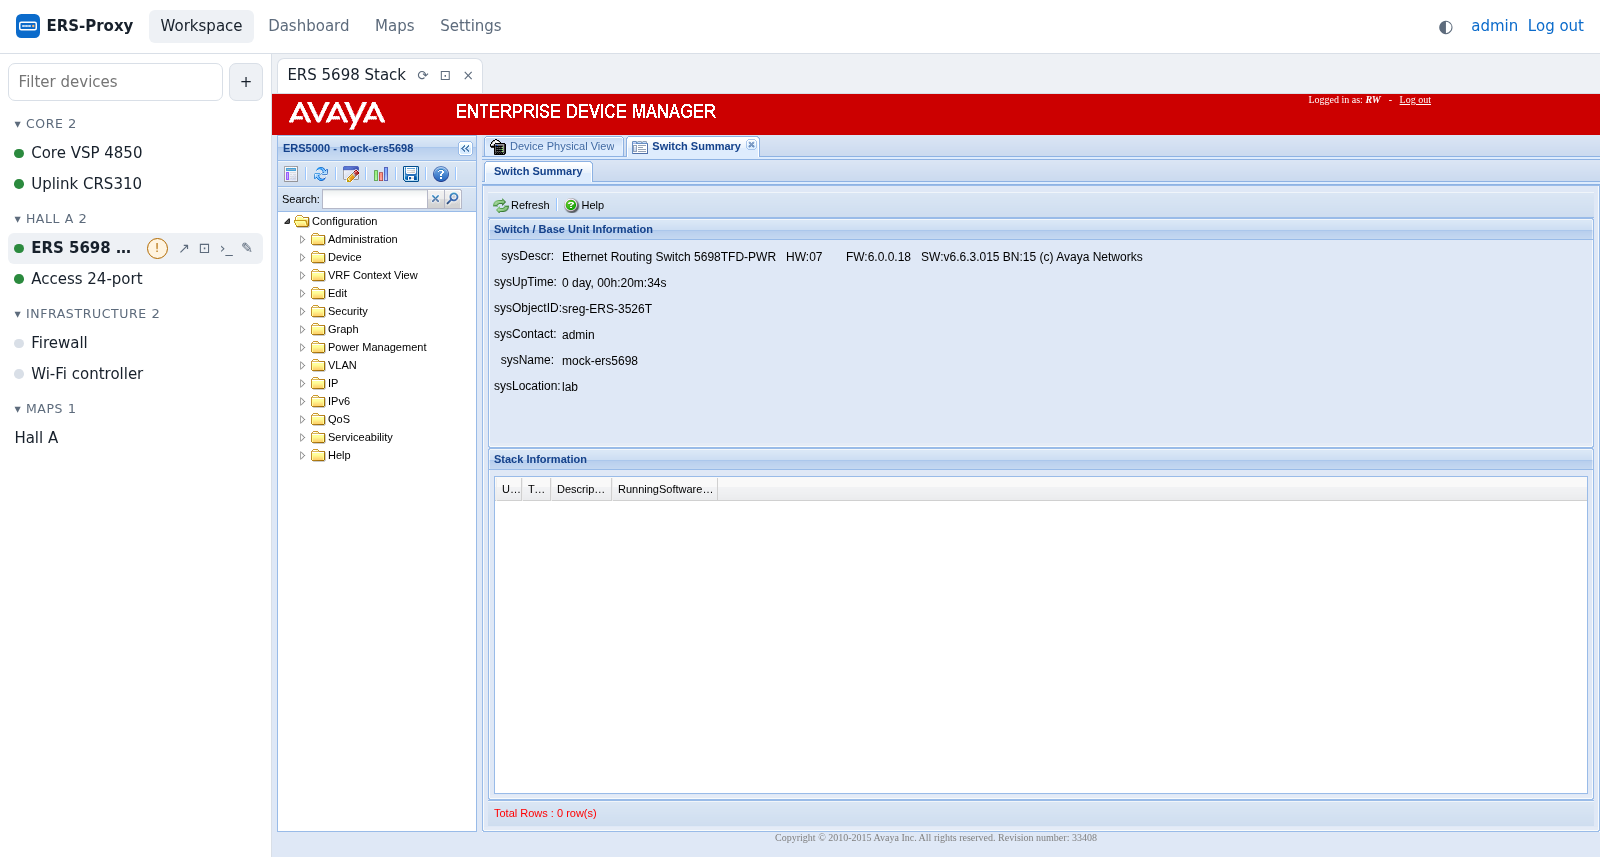
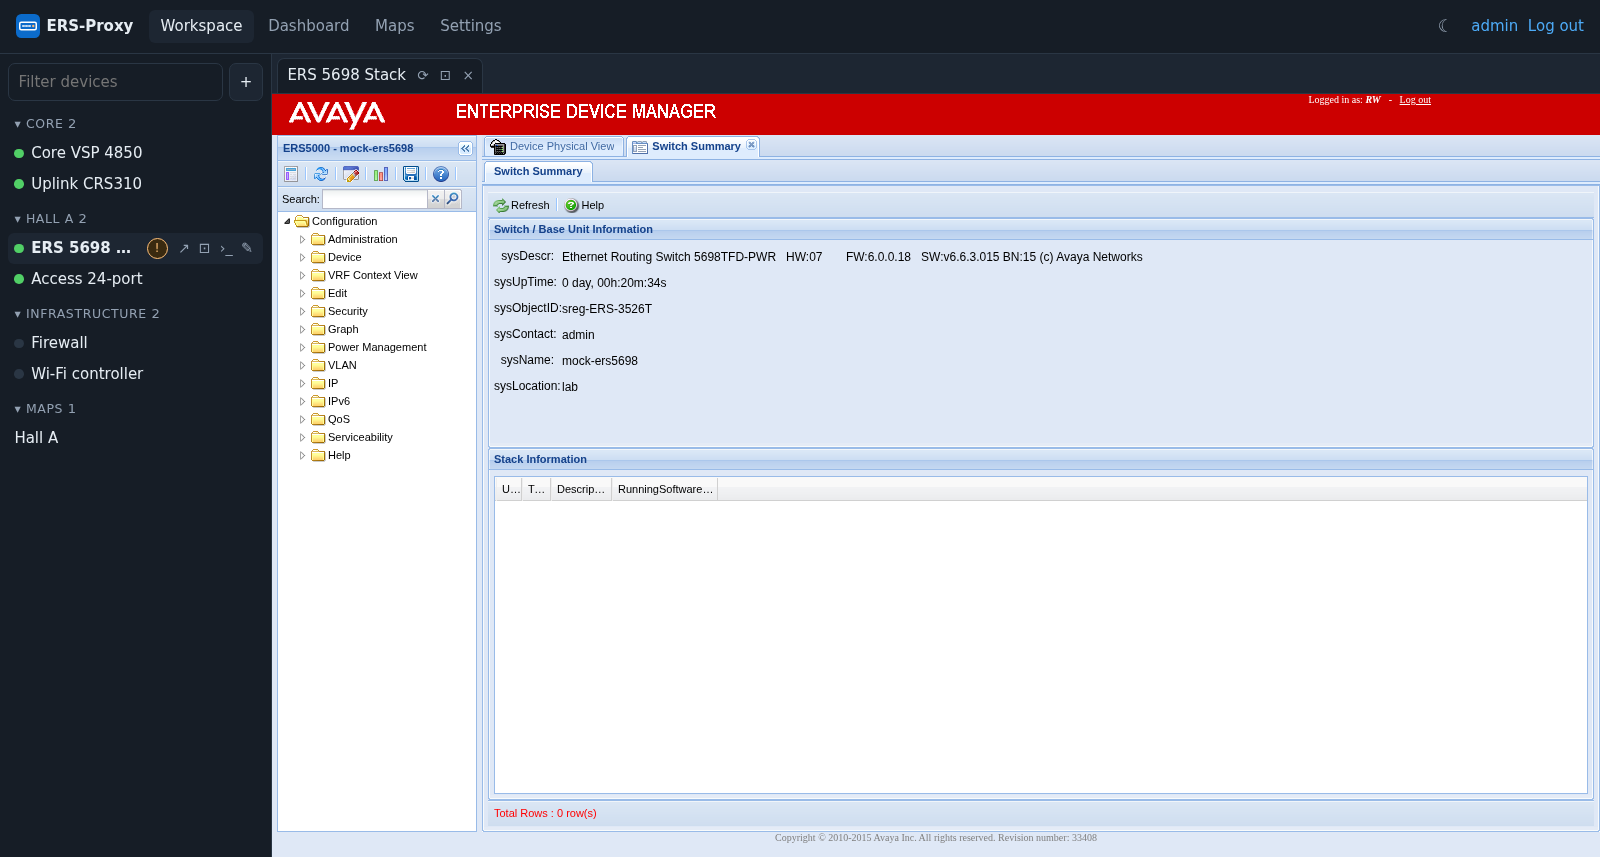
Take the README screenshots in the dark theme
All screenshots are retaken with the dark theme, and the floor plan
behind the map is dark as well. The map has one image instead of a
light and a dark one.

Changed region(s): [[0.0, 0.0, 1.0, 1.0]]

diff --git a/README.md b/README.md
@@ -36,13 +36,6 @@ edit them. Maps also open as tabs in the workspace. Details:
 
 ![A network map on a floor plan: four switches, LLDP and manual links with live rates](docs/images/map.png)
 
-<details>
-<summary>The same map in the dark theme</summary>
-
-![The network map in the dark theme](docs/images/map-dark.png)
-
-</details>
-
 ### Port dashboard
 
 Every port of every monitored switch at a glance: link, speed, duplex, VLANs, PoE, LAG, LLDP

diff --git a/CHANGELOG.md b/CHANGELOG.md
@@ -6,6 +6,11 @@ uses [Semantic Versioning](https://semver.org/spec/v2.0.0.html).
 
 ## [Unreleased]
 
+### Changed
+
+- README: the screenshots are taken in the dark theme (also the floor plan behind the map); the map
+  has one image instead of a light and a dark one.
+
 ## [1.2.0] - 2026-11-18
 
 ### Security
